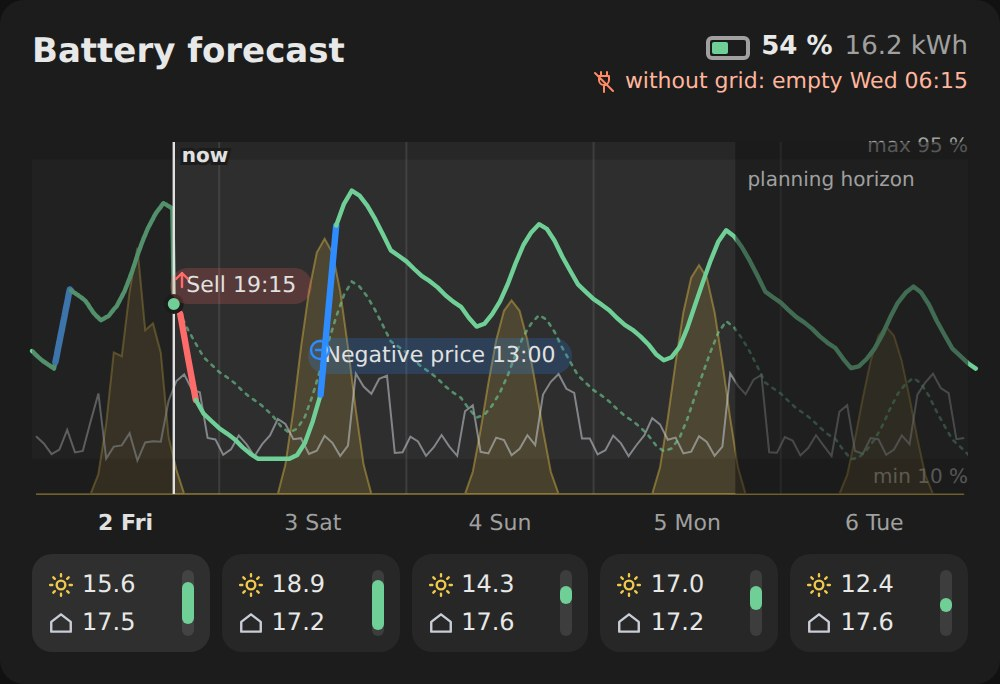
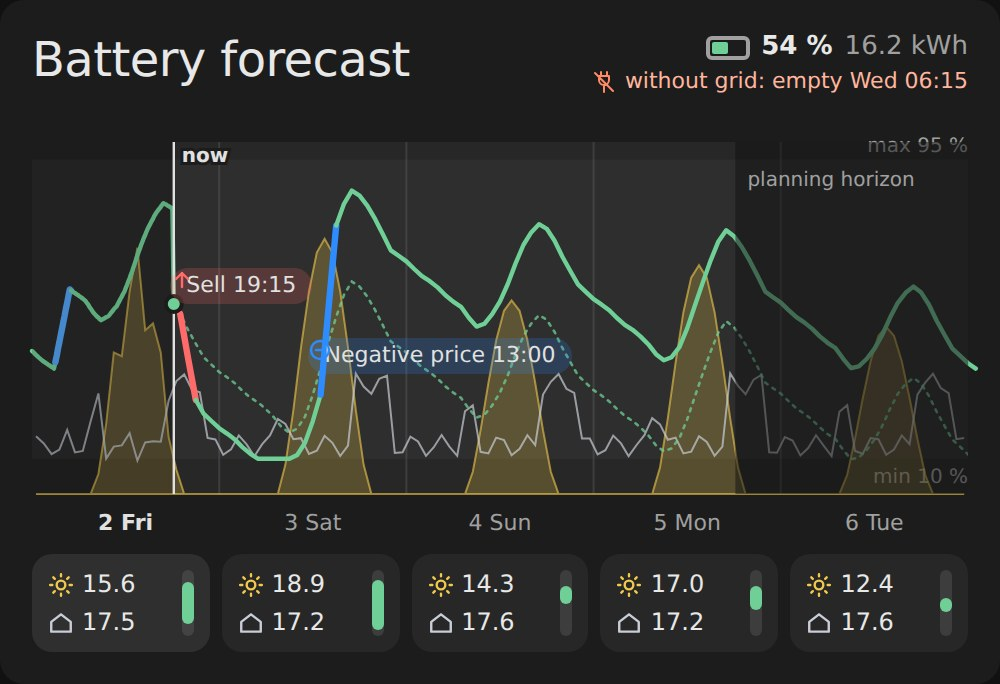
0.5.8: card titles at Home Assistant's header size, brighter charts
Claude-Session: https://claude.ai/code/session_014r7iW87VUaLwA2BPBnvNAd

diff --git a/custom_components/ess_manager/frontend/ess-manager-cards.js b/custom_components/ess_manager/frontend/ess-manager-cards.js
@@ -322,7 +322,7 @@ const BASE_CSS = `
   :host { display: block; }
   ha-card { padding: 16px; display: flex; flex-direction: column; gap: 14px; overflow: hidden; container-type: inline-size; }
   .top { display: flex; align-items: flex-start; gap: 10px; }
-  .title { font-size: 17px; font-weight: 600; flex-grow: 1; }
+  .title { font-family: var(--ha-card-header-font-family, inherit); font-size: var(--ha-card-header-font-size, 24px); font-weight: var(--ha-card-header-font-weight, 500); letter-spacing: -0.012em; line-height: 1.2; flex-grow: 1; }
   .dim { color: var(--secondary-text-color, #a0a0a0); }
   .batt { width: 22px; height: 12px; border: 2px solid var(--secondary-text-color, #a0a0a0); border-radius: 3px; padding: 1px; box-sizing: border-box; display: inline-flex; flex-shrink: 0; }
   .batt span { border-radius: 1px; }
@@ -667,16 +667,16 @@ class EssManagerBatteryCard extends EssChartCard {
     const solar = mid(m.flows.solar);
     if (opt.show_solar !== false && solar.length > 1) {
       const line = pts(solar, yk);
-      svg += `<path d="M${r1(x(solar[0][0]))} ${bottom} L${line.join(" L")} L${r1(x(solar[solar.length - 1][0]))} ${bottom} Z" fill="${opt.solar_color}" fill-opacity="0.16" stroke="${opt.solar_color}" stroke-opacity="0.4" stroke-width="1"/>`;
+      svg += `<path d="M${r1(x(solar[0][0]))} ${bottom} L${line.join(" L")} L${r1(x(solar[solar.length - 1][0]))} ${bottom} Z" fill="${opt.solar_color}" fill-opacity="0.24" stroke="${opt.solar_color}" stroke-opacity="0.6" stroke-width="1"/>`;
     }
     const usage = mid(m.flows.usage);
     if (opt.show_usage !== false && usage.length > 1) {
-      svg += `<path d="M${pts(usage, yk).join(" L")}" fill="none" stroke="${opt.usage_color}" stroke-opacity="0.55" stroke-width="1"/>`;
+      svg += `<path d="M${pts(usage, yk).join(" L")}" fill="none" stroke="${opt.usage_color}" stroke-opacity="0.7" stroke-width="1"/>`;
     }
     // the forecast without plans, cut off at the chart's edges
     if (opt.show_raw !== false && m.raw.length > 1) {
       svg += `<defs><clipPath id="plot"><rect x="0" y="${top}" width="${W}" height="${H}"/></clipPath></defs>`;
-      svg += `<path d="M${pts(m.raw, ys).join(" L")}" fill="none" stroke="${opt.soc_color}" stroke-opacity="0.6" stroke-width="1.3" stroke-dasharray="1.5 3" stroke-linecap="round" clip-path="url(#plot)"/>`;
+      svg += `<path d="M${pts(m.raw, ys).join(" L")}" fill="none" stroke="${opt.soc_color}" stroke-opacity="0.75" stroke-width="1.3" stroke-dasharray="1.5 3" stroke-linecap="round" clip-path="url(#plot)"/>`;
     }
     // the SOC line, one stretch per colour
     const histKind = (t) => {
@@ -711,7 +711,7 @@ class EssManagerBatteryCard extends EssChartCard {
     // the past slightly dimmed, past the planning horizon more
     const bg = "var(--ha-card-background, var(--card-background-color, #1c1c1c))";
     const xNow = x(m.now);
-    svg += `<rect x="0" y="${top}" width="${r1(clamp(xNow, 0, W))}" height="${H}" style="fill:${bg}" fill-opacity="0.35"/>`;
+    svg += `<rect x="0" y="${top}" width="${r1(clamp(xNow, 0, W))}" height="${H}" style="fill:${bg}" fill-opacity="0.2"/>`;
     const xHor = x(m.horizon);
     if (xHor < W) {
       svg += `<rect x="${r1(xHor)}" y="${top}" width="${r1(W - xHor)}" height="${H}" style="fill:${bg}" fill-opacity="0.55"/>`;
@@ -1133,10 +1133,10 @@ class EssManagerPriceCard extends EssChartCard {
     }
     const dayLine = nextMidnight(this._hass, T0);
     const svg = `<defs>${grad}</defs>${axis}${under}
-      <path d="${bars(all)}" fill="url(#lvl)" fill-opacity="0.6"/>
+      <path d="${bars(all)}" fill="url(#lvl)" fill-opacity="0.75"/>
       <path d="${bars(all.filter(inWindow))}" fill="url(#lvl)"/>
       ${streaks}${buyLine}
-      <rect x="${X0}" y="0" width="${r1(clamp(xNow - X0, 0, W - X0))}" height="${r1(bottom + 8)}" style="fill:${bg}" fill-opacity="0.7"/>
+      <rect x="${X0}" y="0" width="${r1(clamp(xNow - X0, 0, W - X0))}" height="${r1(bottom + 8)}" style="fill:${bg}" fill-opacity="0.6"/>
       ${dayLine ? `<line x1="${r1(x(dayLine))}" y1="${top - 4}" x2="${r1(x(dayLine))}" y2="${r1(bottom + 8)}" stroke="rgba(127,127,127,.45)"/>` : ""}
       ${n < slots ? `<text x="${r1((xi(n) + W) / 2)}" y="${r1(top + H / 2)}" text-anchor="middle" style="font-size:11px">${esc(this._t("no_prices"))}</text>` : ""}
       <line x1="${r1(xNow)}" y1="${top - 4}" x2="${r1(xNow)}" y2="${r1(bottom)}" style="stroke:var(--primary-text-color, #e8e8e8)" stroke-width="1.2"/>
@@ -1573,7 +1573,7 @@ class EssManagerStatusCard extends HTMLElement {
     this.shadowRoot.innerHTML = `<style>
       ha-card { padding: 16px; display: flex; flex-direction: column; gap: 14px; container-type: inline-size; }
       .top { display: flex; align-items: center; gap: 10px; }
-      .title { font-size: 17px; font-weight: 600; flex-grow: 1; }
+      .title { font-family: var(--ha-card-header-font-family, inherit); font-size: var(--ha-card-header-font-size, 24px); font-weight: var(--ha-card-header-font-weight, 500); letter-spacing: -0.012em; line-height: 1.2; flex-grow: 1; }
       .status { display: flex; align-items: center; gap: 6px; font-size: 13px; color: var(--secondary-text-color, #a0a0a0); }
       .status i { width: 8px; height: 8px; border-radius: 999px; display: inline-block; }
       .blocks, .tiles { display: grid; grid-template-columns: repeat(2, minmax(0, 1fr)); gap: 10px; }

diff --git a/tools/cards_template.js b/tools/cards_template.js
@@ -322,7 +322,7 @@ const BASE_CSS = `
   :host { display: block; }
   ha-card { padding: 16px; display: flex; flex-direction: column; gap: 14px; overflow: hidden; container-type: inline-size; }
   .top { display: flex; align-items: flex-start; gap: 10px; }
-  .title { font-size: 17px; font-weight: 600; flex-grow: 1; }
+  .title { font-family: var(--ha-card-header-font-family, inherit); font-size: var(--ha-card-header-font-size, 24px); font-weight: var(--ha-card-header-font-weight, 500); letter-spacing: -0.012em; line-height: 1.2; flex-grow: 1; }
   .dim { color: var(--secondary-text-color, #a0a0a0); }
   .batt { width: 22px; height: 12px; border: 2px solid var(--secondary-text-color, #a0a0a0); border-radius: 3px; padding: 1px; box-sizing: border-box; display: inline-flex; flex-shrink: 0; }
   .batt span { border-radius: 1px; }
@@ -667,16 +667,16 @@ class EssManagerBatteryCard extends EssChartCard {
     const solar = mid(m.flows.solar);
     if (opt.show_solar !== false && solar.length > 1) {
       const line = pts(solar, yk);
-      svg += `<path d="M${r1(x(solar[0][0]))} ${bottom} L${line.join(" L")} L${r1(x(solar[solar.length - 1][0]))} ${bottom} Z" fill="${opt.solar_color}" fill-opacity="0.16" stroke="${opt.solar_color}" stroke-opacity="0.4" stroke-width="1"/>`;
+      svg += `<path d="M${r1(x(solar[0][0]))} ${bottom} L${line.join(" L")} L${r1(x(solar[solar.length - 1][0]))} ${bottom} Z" fill="${opt.solar_color}" fill-opacity="0.24" stroke="${opt.solar_color}" stroke-opacity="0.6" stroke-width="1"/>`;
     }
     const usage = mid(m.flows.usage);
     if (opt.show_usage !== false && usage.length > 1) {
-      svg += `<path d="M${pts(usage, yk).join(" L")}" fill="none" stroke="${opt.usage_color}" stroke-opacity="0.55" stroke-width="1"/>`;
+      svg += `<path d="M${pts(usage, yk).join(" L")}" fill="none" stroke="${opt.usage_color}" stroke-opacity="0.7" stroke-width="1"/>`;
     }
     // the forecast without plans, cut off at the chart's edges
     if (opt.show_raw !== false && m.raw.length > 1) {
       svg += `<defs><clipPath id="plot"><rect x="0" y="${top}" width="${W}" height="${H}"/></clipPath></defs>`;
-      svg += `<path d="M${pts(m.raw, ys).join(" L")}" fill="none" stroke="${opt.soc_color}" stroke-opacity="0.6" stroke-width="1.3" stroke-dasharray="1.5 3" stroke-linecap="round" clip-path="url(#plot)"/>`;
+      svg += `<path d="M${pts(m.raw, ys).join(" L")}" fill="none" stroke="${opt.soc_color}" stroke-opacity="0.75" stroke-width="1.3" stroke-dasharray="1.5 3" stroke-linecap="round" clip-path="url(#plot)"/>`;
     }
     // the SOC line, one stretch per colour
     const histKind = (t) => {
@@ -711,7 +711,7 @@ class EssManagerBatteryCard extends EssChartCard {
     // the past slightly dimmed, past the planning horizon more
     const bg = "var(--ha-card-background, var(--card-background-color, #1c1c1c))";
     const xNow = x(m.now);
-    svg += `<rect x="0" y="${top}" width="${r1(clamp(xNow, 0, W))}" height="${H}" style="fill:${bg}" fill-opacity="0.35"/>`;
+    svg += `<rect x="0" y="${top}" width="${r1(clamp(xNow, 0, W))}" height="${H}" style="fill:${bg}" fill-opacity="0.2"/>`;
     const xHor = x(m.horizon);
     if (xHor < W) {
       svg += `<rect x="${r1(xHor)}" y="${top}" width="${r1(W - xHor)}" height="${H}" style="fill:${bg}" fill-opacity="0.55"/>`;
@@ -1133,10 +1133,10 @@ class EssManagerPriceCard extends EssChartCard {
     }
     const dayLine = nextMidnight(this._hass, T0);
     const svg = `<defs>${grad}</defs>${axis}${under}
-      <path d="${bars(all)}" fill="url(#lvl)" fill-opacity="0.6"/>
+      <path d="${bars(all)}" fill="url(#lvl)" fill-opacity="0.75"/>
       <path d="${bars(all.filter(inWindow))}" fill="url(#lvl)"/>
       ${streaks}${buyLine}
-      <rect x="${X0}" y="0" width="${r1(clamp(xNow - X0, 0, W - X0))}" height="${r1(bottom + 8)}" style="fill:${bg}" fill-opacity="0.7"/>
+      <rect x="${X0}" y="0" width="${r1(clamp(xNow - X0, 0, W - X0))}" height="${r1(bottom + 8)}" style="fill:${bg}" fill-opacity="0.6"/>
       ${dayLine ? `<line x1="${r1(x(dayLine))}" y1="${top - 4}" x2="${r1(x(dayLine))}" y2="${r1(bottom + 8)}" stroke="rgba(127,127,127,.45)"/>` : ""}
       ${n < slots ? `<text x="${r1((xi(n) + W) / 2)}" y="${r1(top + H / 2)}" text-anchor="middle" style="font-size:11px">${esc(this._t("no_prices"))}</text>` : ""}
       <line x1="${r1(xNow)}" y1="${top - 4}" x2="${r1(xNow)}" y2="${r1(bottom)}" style="stroke:var(--primary-text-color, #e8e8e8)" stroke-width="1.2"/>
@@ -1573,7 +1573,7 @@ class EssManagerStatusCard extends HTMLElement {
     this.shadowRoot.innerHTML = `<style>
       ha-card { padding: 16px; display: flex; flex-direction: column; gap: 14px; container-type: inline-size; }
       .top { display: flex; align-items: center; gap: 10px; }
-      .title { font-size: 17px; font-weight: 600; flex-grow: 1; }
+      .title { font-family: var(--ha-card-header-font-family, inherit); font-size: var(--ha-card-header-font-size, 24px); font-weight: var(--ha-card-header-font-weight, 500); letter-spacing: -0.012em; line-height: 1.2; flex-grow: 1; }
       .status { display: flex; align-items: center; gap: 6px; font-size: 13px; color: var(--secondary-text-color, #a0a0a0); }
       .status i { width: 8px; height: 8px; border-radius: 999px; display: inline-block; }
       .blocks, .tiles { display: grid; grid-template-columns: repeat(2, minmax(0, 1fr)); gap: 10px; }

diff --git a/CHANGELOG.md b/CHANGELOG.md
@@ -16,6 +16,14 @@ a plain git tag on its own isn't enough for HACS to notice.
   data yet and where to look (Settings > System > Logs). Messages in Dutch
   or English like the rest of the cards.
 
+### Changed
+- Battery forecast and status card titles use Home Assistant's own card
+  header size (24 px, or whatever your theme sets), so they match your
+  other cards.
+- Brighter charts: battery card - solar, usage and the dotted line without
+  plans more visible, the past less dimmed; prices card - the bars outside
+  the plans at 75 % instead of 60 %, the past a little less dark.
+
 ## [0.5.7] - 2026-10-03
 
 ### Changed
